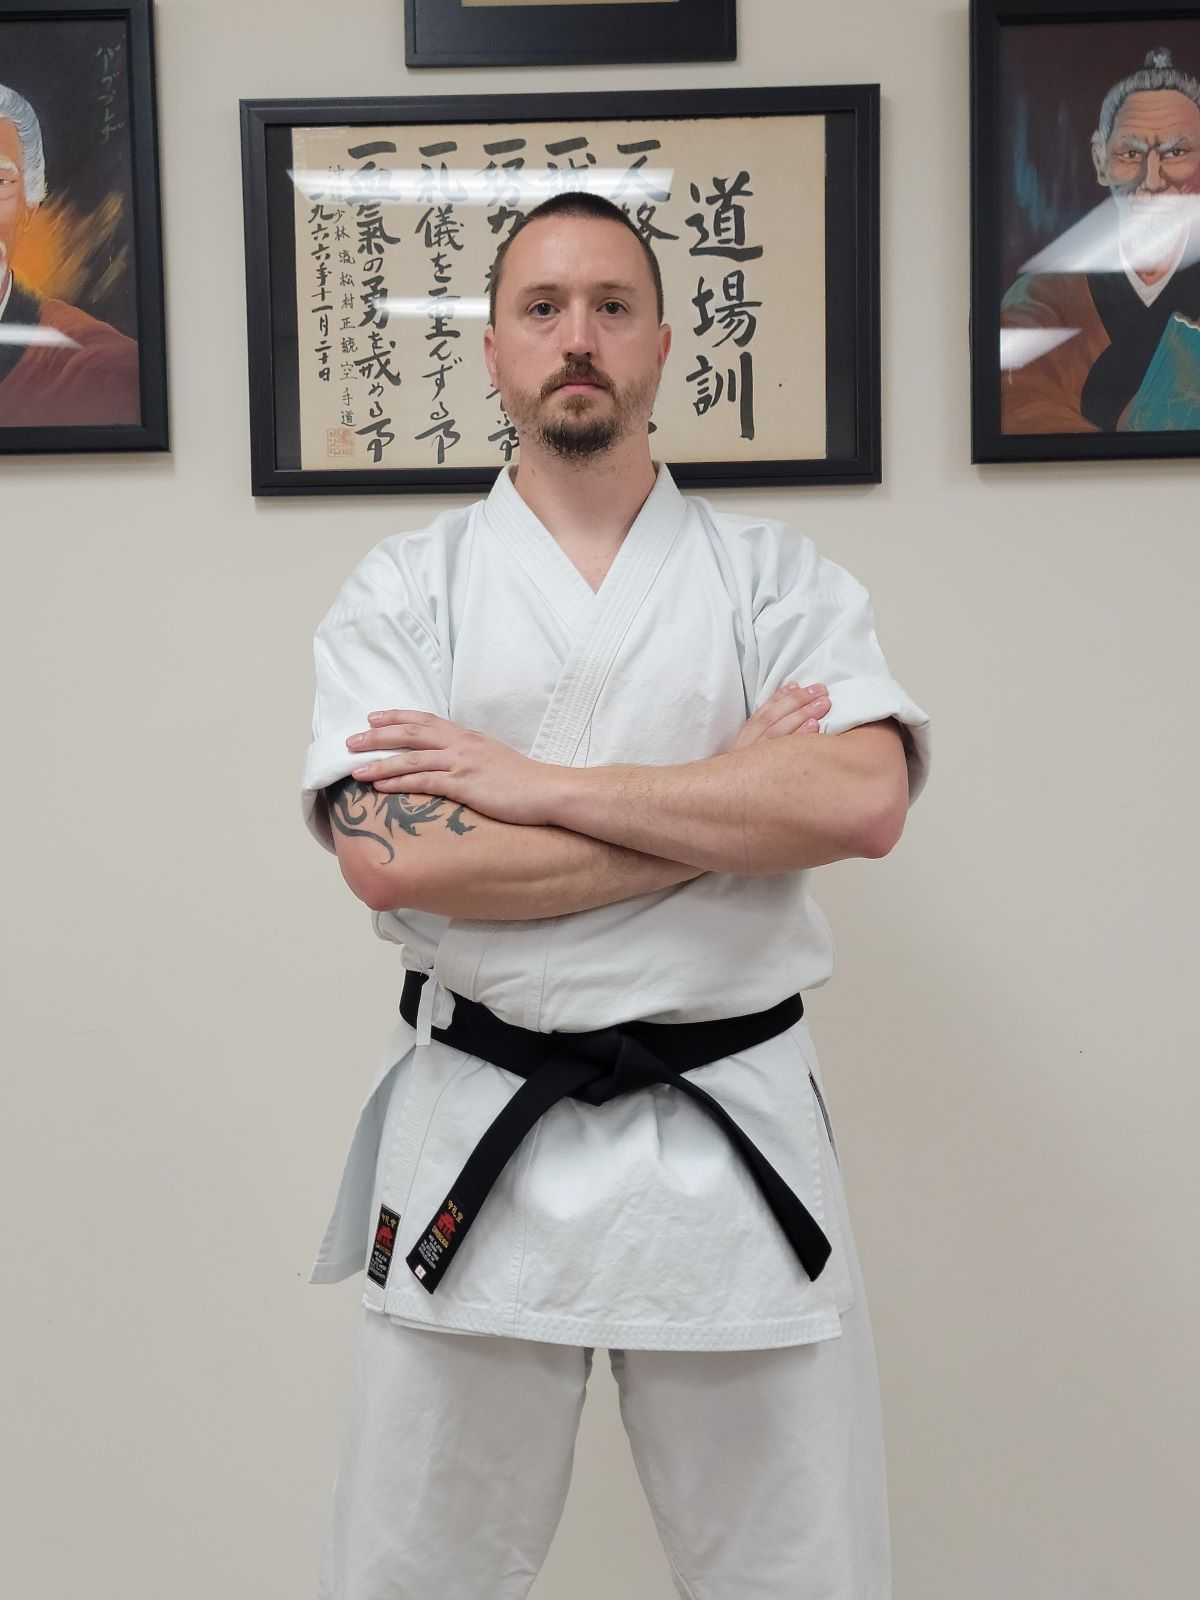
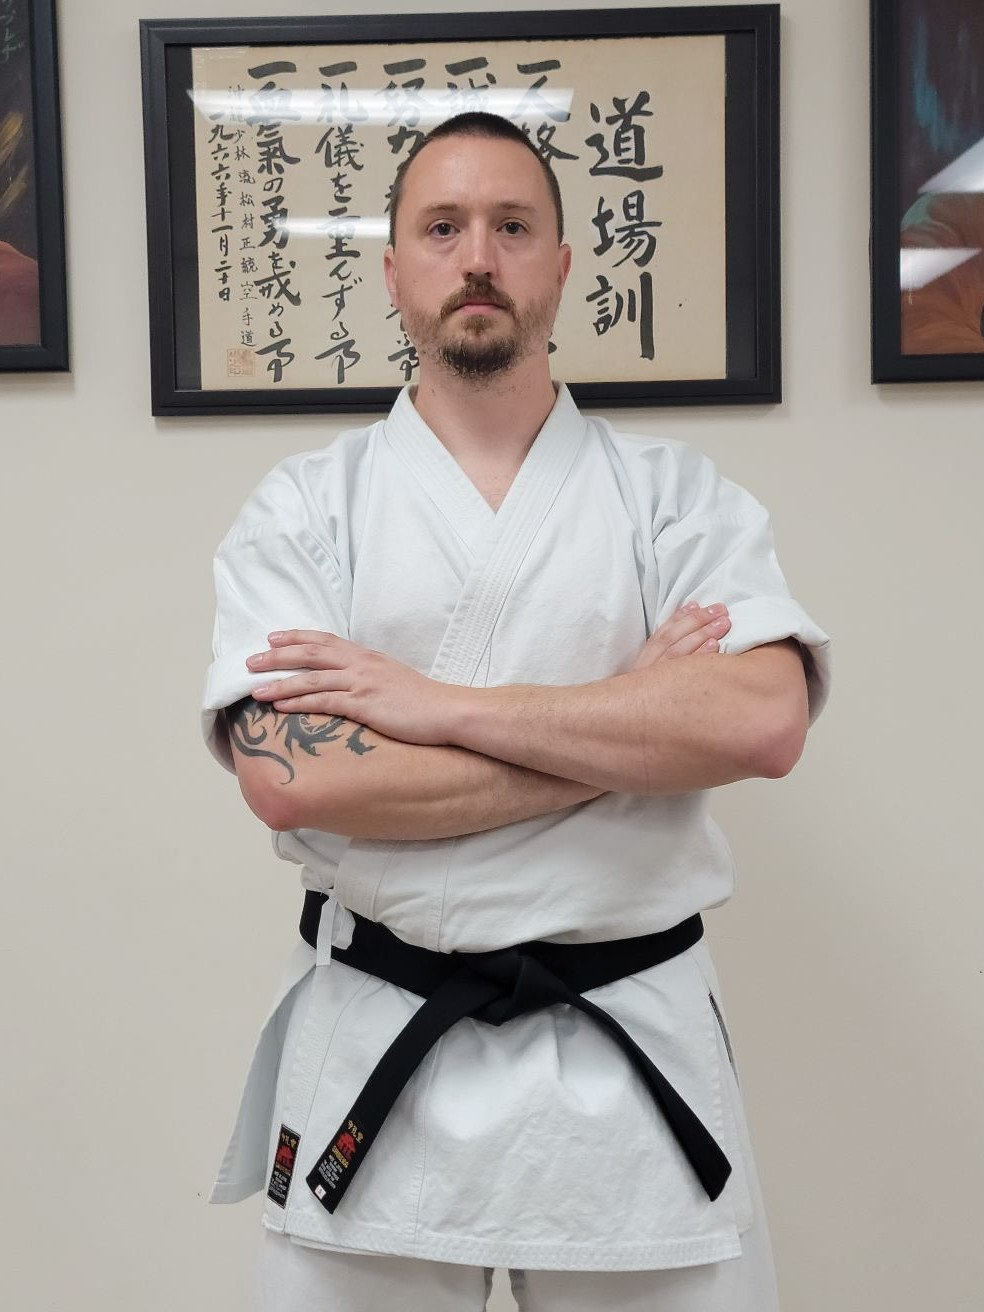
[content] updated instructor photo

diff --git a/src/content/instructors/evan-pratt.md b/src/content/instructors/evan-pratt.md
@@ -1,7 +1,7 @@
 ---
 name: Evan Pratt
 rank: Nidan
-photo: /uploads/evan.jpg
+photo: /uploads/Evan2.jpg
 photoOrientation: Portrait
 sortOrder: 6
 featured: false